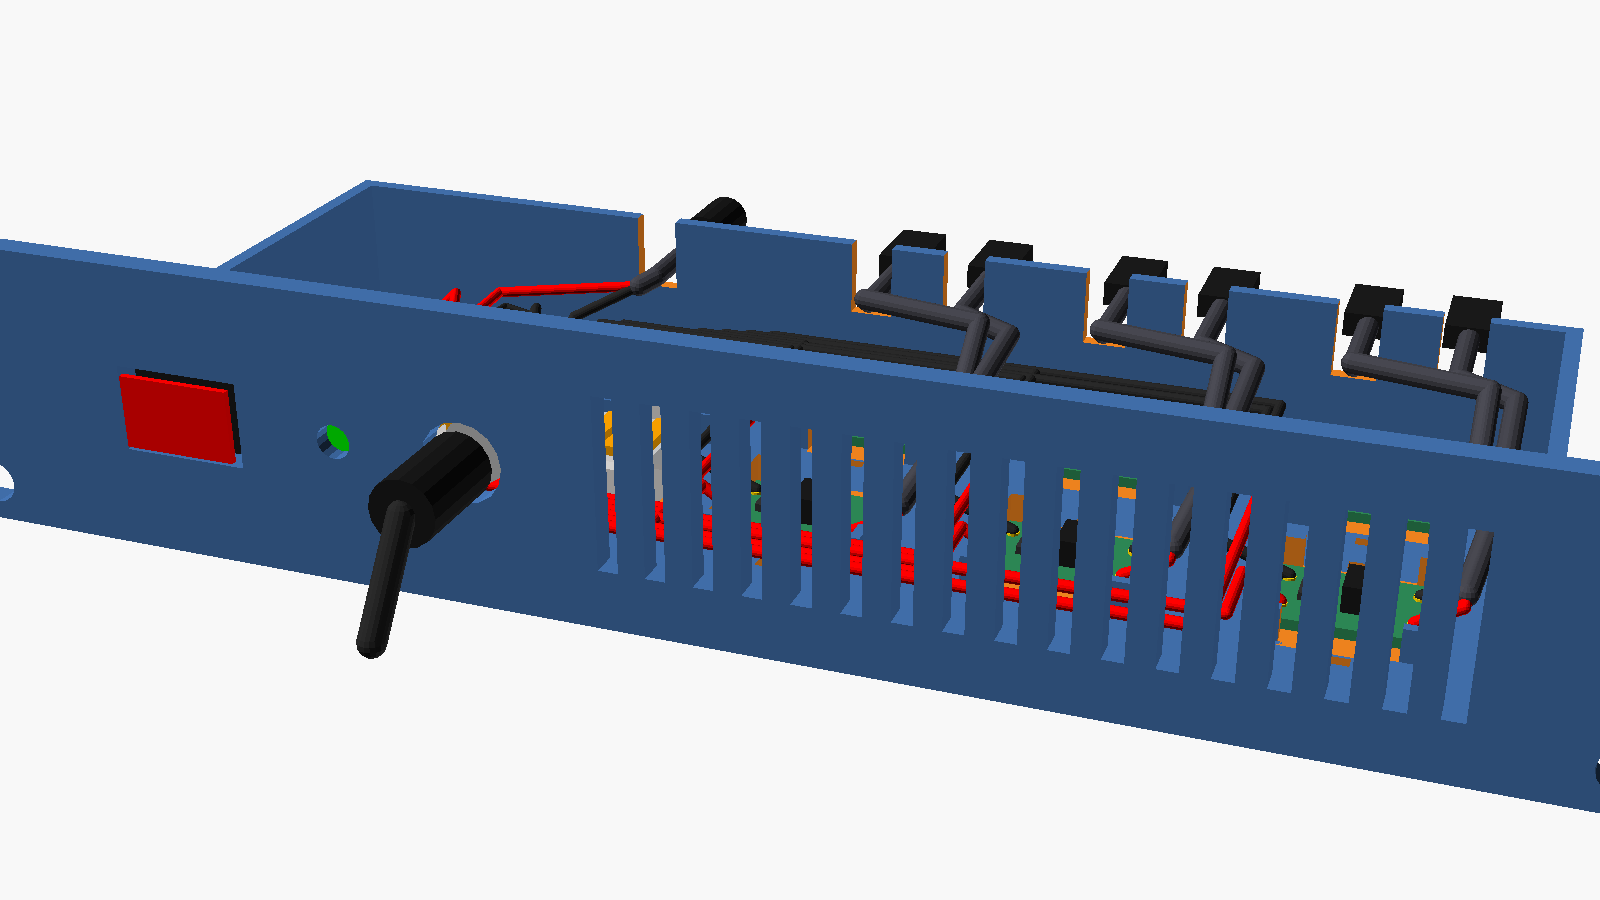
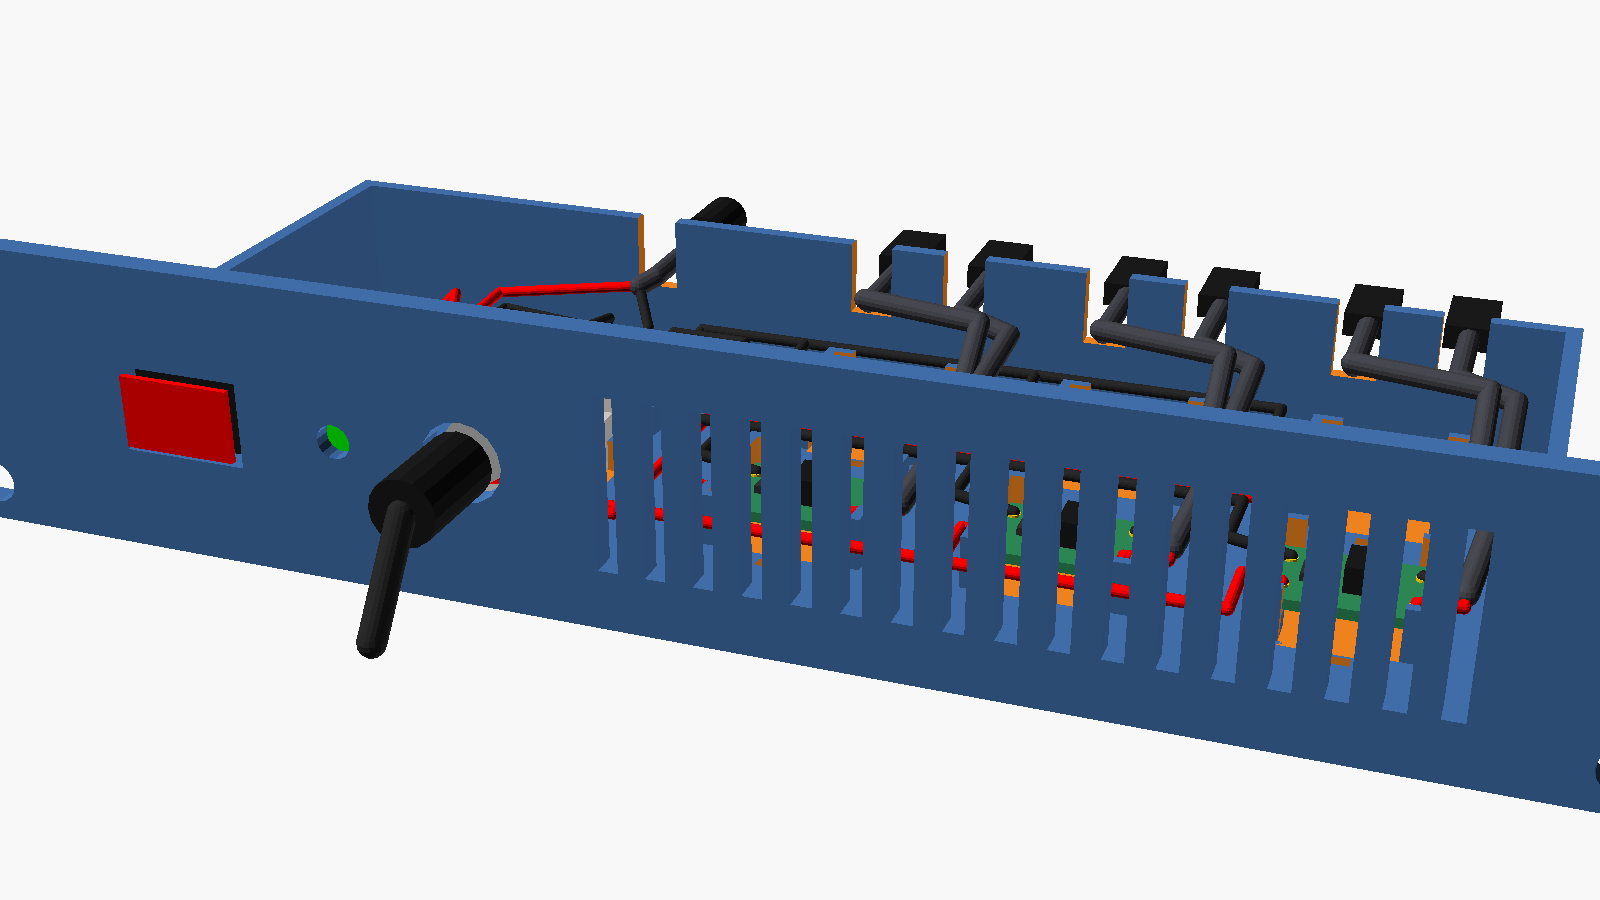
Six-buck panel: drop expansion module, daisy-chain bucks, add standoffs
- Remove the expansion module and the main panel's XT30 link-out
  (221-413 pocket, link notch, strain relief). The main panel's spare
  pocket becomes a second 221-415 for GND.
- Six-buck panel: one 221-415 per rail instead of two joined by a
  jumper. Each row's 12 V input is daisy-chained buck to buck with
  pigtail splices (16-14 AWG closed-end crimp caps); the LED gets its
  own Wago ports. Wired preview redrawn to match.
- Buck pockets get corner-ledge standoffs (buck_standoff_h = 3) for pin
  and air clearance under the board.
- BOM: fixed 5 V Mini560 as the buck, with bring-up checks, a premium
  alternative, and why MP1584/LM2596 boards are not recommended.

diff --git a/README.md b/README.md
@@ -14,22 +14,7 @@ Brick 12V ──► rear DC jack ──► 5A fuse ──► front rocker ──
                                                              └──► Buck #3 ──► micro-USB ──► Pi 3
 ```
 
-There is one buck converter per Pi, so a fault on one Pi doesn't take down the others.
-
-### Expansion module (Pi 4–6)
-
-A second 1U panel can run off the same brick. Panel 1 taps 12 V after its fuse and rocker and sends it out through an **XT30** pigtail to the expansion panel:
-
-```
-Panel 1 Wago ──► 221-413 ──► XT30 link out ──► 18 AWG jumper (<30 cm) ──► XT30 in
-                                                                          │
-Panel 2: (optional rocker) ──► Wago 221-415 ──► Buck 4–6 ──► Pi 4–6 ◄─────┘
-```
-
-- **One 60 W brick handles 6 Pi 3B+ total.** A third panel needs its own brick, or upgrade to a 12 V 7.5 A brick with a 7.5 A fuse.
-- The link uses XT30, **not** a 5.5×2.1 barrel. If the brick got plugged into a barrel output by mistake, power would feed in behind the fuse and switch.
-- The expansion panel has no fuse of its own: panel 1's 5 A fuse protects the whole chain.
-- The GS308 has 7 usable ports, so going past 7 Pis also means adding a second switch.
+There is one buck converter per Pi, so a fault on one Pi doesn't take down the others. The tray has two 221-415 pockets: the front one is for +12 V and the rear one for GND. Each rail uses exactly 5 ports (input, GS308, 3 bucks).
 
 | Device | Input | Typical draw | Worst case |
 |---|---|---|---|
@@ -38,18 +23,33 @@ Panel 2: (optional rocker) ──► Wago 221-415 ──► Buck 4–6 ──►
 
 ### Six-buck panel (Pi 1–6 in one 1U)
 
-All six Pis and the GS308 can also run from **one** panel instead of main + expansion. It has the main module's input (DC jack, 5 A fuse, rocker), no link-out, and the bucks in two rows of three. The DC jack is on the **front panel**, between the LED and the vents, so the brick plugs in from the front:
+All six Pis and the GS308 can also run from **one** panel. It has the main module's input (DC jack, 5 A fuse, rocker) and the bucks in two rows of three. The DC jack is on the **front panel**, between the LED and the vents, so the brick plugs in from the front:
 
 ```
-Brick 12V ──► front DC jack ──► 5A fuse ──► rocker ──► Wago 221-415 ══ jumper ══ Wago 221-415   (+12V; GND the same)
-                                                        ├──► GS308         ├──► Buck 3–6 ──► Pi 3–6
-                                                        └──► Buck 1–2 ──► Pi 1–2
+Brick 12V ──► front DC jack ──► 5A fuse ──► rocker ──► Wago 221-415   (+12V; GND the same)
+                                                        ├──► panel LED (1 kΩ)
+                                                        ├──► GS308
+                                                        ├──► Buck 1 IN ──► Buck 2 IN ──► Buck 3 IN   (front row, daisy-chained)
+                                                        └──► Buck 4 IN ──► Buck 5 IN ──► Buck 6 IN   (rear row, daisy-chained)
+                                                             each buck OUT ──► its own micro-USB ──► Pi 1–6
 ```
 
-- **Wagos:** each rail needs 8 connections (input, GS308, 6 bucks), and a 221-415 has only 5 ports. Use two 221-415s per rail joined by a short jumper, which leaves exactly 8 usable ports. The front pair of pockets is for +12 V, the rear pair for GND.
-- **Load:** about 44 W worst case on the 60 W brick (about 3.7 A through the 5 A fuse). That's the same load as main + expansion.
+- **Wagos:** one 221-415 per rail. The front pocket is for +12 V and the rear pocket for GND. On each, the 5 ports are: input, LED, GS308, front-row chain and rear-row chain.
+- **Daisy chain:** each row's 12 V input runs Wago → buck 1 → buck 2 → buck 3 (GND the same), all in 18 AWG. At buck 1 and buck 2, join three wires in a pigtail splice: the wire coming in, the wire going on to the next buck, and a short lead to the buck's input pad. The last buck in each row is wired straight from the trunk. That's 4 splices per row and 8 for the panel. Each pad has one wire and carries only its own buck's current.
+
+  ```
+  from Wago / previous buck ──┐
+  to next buck ───────────────┼──● splice (closed-end crimp cap, or solder + heat-shrink)
+  short lead to Buck IN ──────┘
+  ```
+
+  - **Closed-end crimp caps:** use 16–14 AWG nylon caps. Three 18 AWG wires are about 4,900 cmil, more than most 22–16 caps take. Check that the pack's wire-combination chart covers 3×18. Crimp with the closed-end die, not pliers. Make one test splice and tug each wire on its own before doing all eight.
+  - **Or solder:** twist the three wires, solder, trim the tips, and cover with adhesive-lined heat-shrink.
+  - **Never just twist and heat-shrink.** Without solder or a crimp, the joint loosens and heats up over time.
+  - The first link of a row carries all three bucks, about 1.5 A at worst case. That's easy for 18 AWG. A failed splice drops the bucks after it in that row, which is another reason to tug-test. The 5 V side is still one buck per Pi, so a fault on one Pi doesn't affect the others.
+- **Load:** about 44 W worst case on the 60 W brick (about 3.7 A through the 5 A fuse).
 - **Heat:** six bucks lose about 4–5 W in a closed 1U tray. Print in PETG rather than PLA.
-- **Trade-off:** it's one print and no XT30 link, but there's no room to grow past 6 Pis without a second brick.
+- **Limits:** going past 6 Pis needs a second brick (or a 12 V 7.5 A brick with a 7.5 A fuse). The GS308 has 7 usable ports, so past 7 Pis you also need a second switch.
 
 ![Six-buck panel](docs/six-panel-preview.png)
 
@@ -61,14 +61,13 @@ Wired up, with stand-in parts (`cad/six-assembly.scad`, a preview only, not for 
 
 ![Six-buck panel, wired, front: rocker, LED, DC jack](docs/six-assembly-front.png)
 
-- **Panel LED:** both 221-415 pairs are full, so the LED's + wire piggybacks on the rocker's output tab (1 kΩ resistor in the lead), and its − wire shares GND Wago A's jumper port in a twin ferrule. An illuminated 3-pin rocker avoids the extra wires entirely.
+- **Panel LED:** + to the +12 V Wago's port 1 through a 1 kΩ resistor in the lead, − to the GND Wago's port 1.
 
 ## Repo layout
 
 | Path | What |
 |---|---|
 | [`cad/rack-power-panel.scad`](cad/rack-power-panel.scad) | Parametric OpenSCAD model (panel + tray). Main module by default. |
-| [`cad/expansion-panel.scad`](cad/expansion-panel.scad) | Expansion module: includes the main model with `role = "expansion"` |
 | [`cad/six-panel.scad`](cad/six-panel.scad) | Six-buck panel: all six Pis in one 1U (`role = "six"`) |
 | [`cad/six-assembly.scad`](cad/six-assembly.scad) | Six-buck panel with stand-in parts and wiring (preview only) |
 | [`cad/render.sh`](cad/render.sh) | Renders every variant to STL + PNG and fails on warnings or a non-manifold mesh |
@@ -80,7 +79,7 @@ Wired up, with stand-in parts (`cad/six-assembly.scad`, a preview only, not for 
 The model is parametric. Measure your parts and change the values at the top of the `.scad` file:
 
 1. `ear_pitch` (236.5): your rack's hole spacing, center to center.
-2. `buck_in` ([22, 20]): the pocket size for your buck module.
+2. `buck_in` ([22, 20]): the pocket size for your buck module. `buck_standoff_h` (3): corner ledges in each buck pocket lift the board this far off the floor, which leaves room for solder pins and lets air flow under it. The zip tie still holds the board down. Set it to 0 to put the board flat on the floor.
 3. `jack_d` (12.2): use 8.2 for an M8-body DC jack. `jack_side` (`"rear"` or `"front"`) puts it in the rear wall or on the front panel at `jack_front_x`. The main panel uses the rear; the six-buck panel sets `"front"` in `six-panel.scad`.
 4. `rocker` ([19.4, 13.1]): the cutout for your rocker switch.
 5. `tray_w` (210): this must fit between your rack rails.
@@ -89,10 +88,6 @@ To export an STL:
 
 ```bash
 openscad -o rack-power-panel.stl cad/rack-power-panel.scad
-```
-
-```bash
-openscad -o expansion-panel.stl cad/expansion-panel.scad
 ```
 
 ```bash
@@ -109,17 +104,16 @@ It finds `openscad` on your PATH or an OpenSCAD AppImage in `~/AppImages` (or se
 
 All the files share every dimension, so a change in `rack-power-panel.scad` carries over to the other variants. To change just one variant, override the parameter in its wrapper file below the `include`. The six-buck layout has its own parameters (`buck6_x`, `buck6_y`, `wago6_pos`, `pi6_notch_x`).
 
-The drawing in `docs/layout.svg` shows the main module before the link-out was added.
+The drawing in `docs/layout.svg` shows the main module with only the +12 V Wago. The model also has a GND Wago pocket behind it.
 
-| | Main | Expansion | Six-buck |
-|---|---|---|---|
-| Input | 5.5×2.1 DC jack (rear wall) | XT30 pigtail through a rear notch | 5.5×2.1 DC jack (front panel) |
-| Fuse | 5 A inline, with tie-down | none | 5 A inline, with tie-down |
-| Rocker | yes | optional (`expansion_rocker`) | yes |
-| Bucks | 3, one row | 3, one row | 6, two rows of three |
-| Wago | 221-415 + 221-413 | 221-415 | 4× 221-415 |
-| Rear notches | link out, GS308, Pi ×3 | link in, Pi ×3 | GS308, Pi ×6 |
-| Strain relief | zip slots at the link-out | zip slots at the link-in | none (no link) |
+| | Main | Six-buck |
+|---|---|---|
+| Input | 5.5×2.1 DC jack (rear wall) | 5.5×2.1 DC jack (front panel) |
+| Fuse | 5 A inline, with tie-down | 5 A inline, with tie-down |
+| Rocker | yes | yes |
+| Bucks | 3, one row | 6, two rows of three |
+| Wago | 2× 221-415 | 2× 221-415, bucks daisy-chained in rows |
+| Rear notches | GS308, Pi ×3 | GS308, Pi ×6 |
 
 **Printing:** print with the tray floor on the bed and the front panel standing up, so nothing needs supports. PETG is preferred. If your parts differ from the defaults, print a thin test strip of the front panel first to check the rack holes and the switch cutout.
 
@@ -132,4 +126,4 @@ The drawing in `docs/layout.svg` shows the main module before the link-out was a
 
 ## Status
 
-All three variants render cleanly in OpenSCAD 2021.01 (no warnings, manifold meshes). Nothing has been test-printed yet, so expect to adjust the model after a test print.
+Both variants render cleanly in OpenSCAD 2021.01 (no warnings, manifold meshes). Nothing has been test-printed yet, so expect to adjust the model after a test print.

diff --git a/BOM.md b/BOM.md
@@ -7,19 +7,28 @@ Prices are rough USD estimates (late 2026) and vary by vendor.
 | Qty | Part | Example | Notes | ~Cost |
 |---|---|---|---|---|
 | 1 | 12 V 5 A (60 W) power brick, 5.5×2.1 mm plug | Mean Well GST60A12-P1J | About 2–3× the real load, so it runs cool. Avoid no-name bricks. | $20–25 |
-| 3 | 12 V→5 V buck converter, ≥3 A continuous | Mini560 (5 V 5 A) or Pololu D24V30F5 (5 V 3 A) | One per Pi. Avoid LM2596 boards. If you use an adjustable buck, set it to 5.15–5.2 V before connecting a Pi. | $3–15 total |
+| 3 (buy 4–5) | 12 V→5 V buck converter | **Mini560, fixed 5 V output, "5 A"** | One per Pi. Get the fixed 5 V version, not adjustable, and check that the listing's input range covers 12 V. Buy from a well-reviewed seller and get spares. Expect about 3 A continuous in the closed tray, against a Pi 3B+'s ~1–1.2 A at full CPU and ~2.5 A peak with USB devices. Fits the 22 × 20 mm pocket; measure yours. | $5–10 total |
+
+**Buck converter notes**
+
+- **Check every module before it touches a Pi.** On 12 V with no load, the output should read 5.0–5.2 V. After bring-up, `vcgencmd get_throttled` on each Pi should return `0x0`.
+- **Premium alternative:** Pololu D36V28F5 (5 V, about 3.2 A) or D24V30F5 (5 V, 3 A). Genuine parts with real ratings and built-in protection, about $10–15 each. Check the board size against `buck_in` before ordering.
+- **Not recommended:**
+  - **MP1584 boards:** small and efficient, but only about 1.5–2 A of real headroom, and usually an adjustable trim pot that can drift.
+  - **LM2596 boards:** about 75–80 % efficient, so they run hot in 1U. They're too big for the pocket, often carry clone chips, and use a trim pot.
+- **If you use any adjustable buck,** set it to 5.15–5.2 V before connecting a Pi, then lock the pot with a dab of nail polish.
 
 ## Connectors and wiring
 
 | Qty | Part | Notes | ~Cost |
 |---|---|---|---|
-| 1 | Panel-mount female 5.5×2.1 mm DC jack, M12 body | Goes in the rear wall. Use `jack_d = 8.2` in the model for the M8 type. | $2 |
+| 1 | Panel-mount female 5.5×2.1 mm DC jack, M12 body | Rear wall on the main panel, front panel on the six-buck panel. Use `jack_d = 8.2` in the model for the M8 type. | $2 |
 | 1 | Male 5.5×2.1 mm barrel pigtail | Powers the GS308. Check that your adapter is 5.5×2.1 and center-positive. | $2 |
 | 3 | Micro-USB male power pigtails, 20 AWG preferred | Keep them 10–15 cm long. | $5 |
 | 1 | Inline blade fuse holder + 5 A fuse | Goes right after the DC jack. | $3 |
 | 1 | KCD1-style snap-in rocker switch, rated ≥5 A at 12 V DC | Front panel cutout is 19.4 × 13.1 mm. | $1 |
 | 1 | 5 mm LED + ~1 kΩ resistor (optional) | Power indicator, run off 12 V. | $1 |
-| 1 | Wago 221-415 (5-port) lever connector | 12 V distribution. A matching GND connector is also needed (a second 221-415 or a 221-413). | $3 |
+| 2 | Wago 221-415 (5-port) lever connector | One for +12 V and one for GND. Each uses all 5 ports: input, GS308 and 3 bucks. | $6 |
 | — | 18 AWG red/black wire | For the 12 V bus. | $5 |
 | — | Heat-shrink, small zip ties (≤4 mm wide), optional ferrules | | $5 |
 
@@ -36,42 +45,17 @@ Prices are rough USD estimates (late 2026) and vary by vendor.
 - A soldering iron
 - Wire strippers, and crimpers if you use ferrules
 
-**Estimated total (main module):** about $40–55 plus filament.
+**Estimated total (main module):** about $45–60 plus filament.
 
-## Main module additions for the link-out
-
-| Qty | Part | Notes | ~Cost |
-|---|---|---|---|
-| 1 | Wago 221-413 (3-port) | +12 V tap for the link-out. A matching GND connector is also needed. | $2 |
-| 1 | XT30 female pigtail, 18 AWG | Link out, through the rear notch with zip-tie strain relief | $2 |
-
-## Expansion module (Pi 4–6, same brick)
-
-| Qty | Part | Notes | ~Cost |
-|---|---|---|---|
-| 3 | 12 V→5 V buck converter, ≥3 A | Same as the main module | $3–15 total |
-| 3 | Micro-USB male power pigtails | 10–15 cm | $5 |
-| 1 | XT30 male pigtail, 18 AWG | Link in | $2 |
-| 1 | 18 AWG jumper, under 30 cm, XT30 on both ends | Panel 1 to panel 2. Or join the two pigtails directly. | $2 |
-| 2 | Wago 221-415 | One each for +12 V and GND | $5 |
-| 1 | KCD1 rocker switch (optional) | Local on/off for Pi 4–6 | $1 |
-| 1 | Printed panel + tray (`cad/expansion-panel.scad`) | | — |
-| 4 | Rack screws + cage nuts | | — |
-
-No brick and no fuse: the expansion panel runs from the main module's brick and 5 A fuse. **One 60 W brick handles 6 Pi 3B+ total.**
-
-**Estimated total (expansion):** about $20–30 plus filament.
-
-## Six-buck panel (Pi 1–6 in one panel, instead of main + expansion)
+## Six-buck panel (Pi 1–6 in one panel)
 
 Start from the main module list above, then change these:
 
 | Change | Part | Notes | ~Cost |
 |---|---|---|---|
-| 3 → 6 | 12 V→5 V buck converter, ≥3 A | One per Pi | +$3–15 |
+| 3 → 6 (buy 8–10) | Mini560, fixed 5 V | One per Pi, same as the main module. Buy spares. | +$5–10 |
 | 3 → 6 | Micro-USB male power pigtails | 10–15 cm, 20 AWG preferred | +$5 |
-| 2 → 4 | Wago 221-415 | Two per rail (+12 V and GND), each pair joined by a short 18 AWG jumper | +$5 |
-| drop | Wago 221-413 and XT30 pigtail | No link-out | −$4 |
+| 8 (+ spares) | 16–14 AWG nylon closed-end crimp caps | Daisy-chain splices: 3× 18 AWG each, 4 per row. Check that the pack's combination chart covers 3×18, and test-crimp one first. Or solder + adhesive-lined heat-shrink. Needs a crimper with a closed-end die. | +$5 |
 | — | Printed panel + tray (`cad/six-panel.scad`) | PETG recommended (six bucks in one tray) | — |
 
-**Estimated total (six-buck panel):** about $55–75 plus filament. That's less than main + expansion, which need a second print, an XT30 link and more Wagos.
+**Estimated total (six-buck panel):** about $60–85 plus filament.
